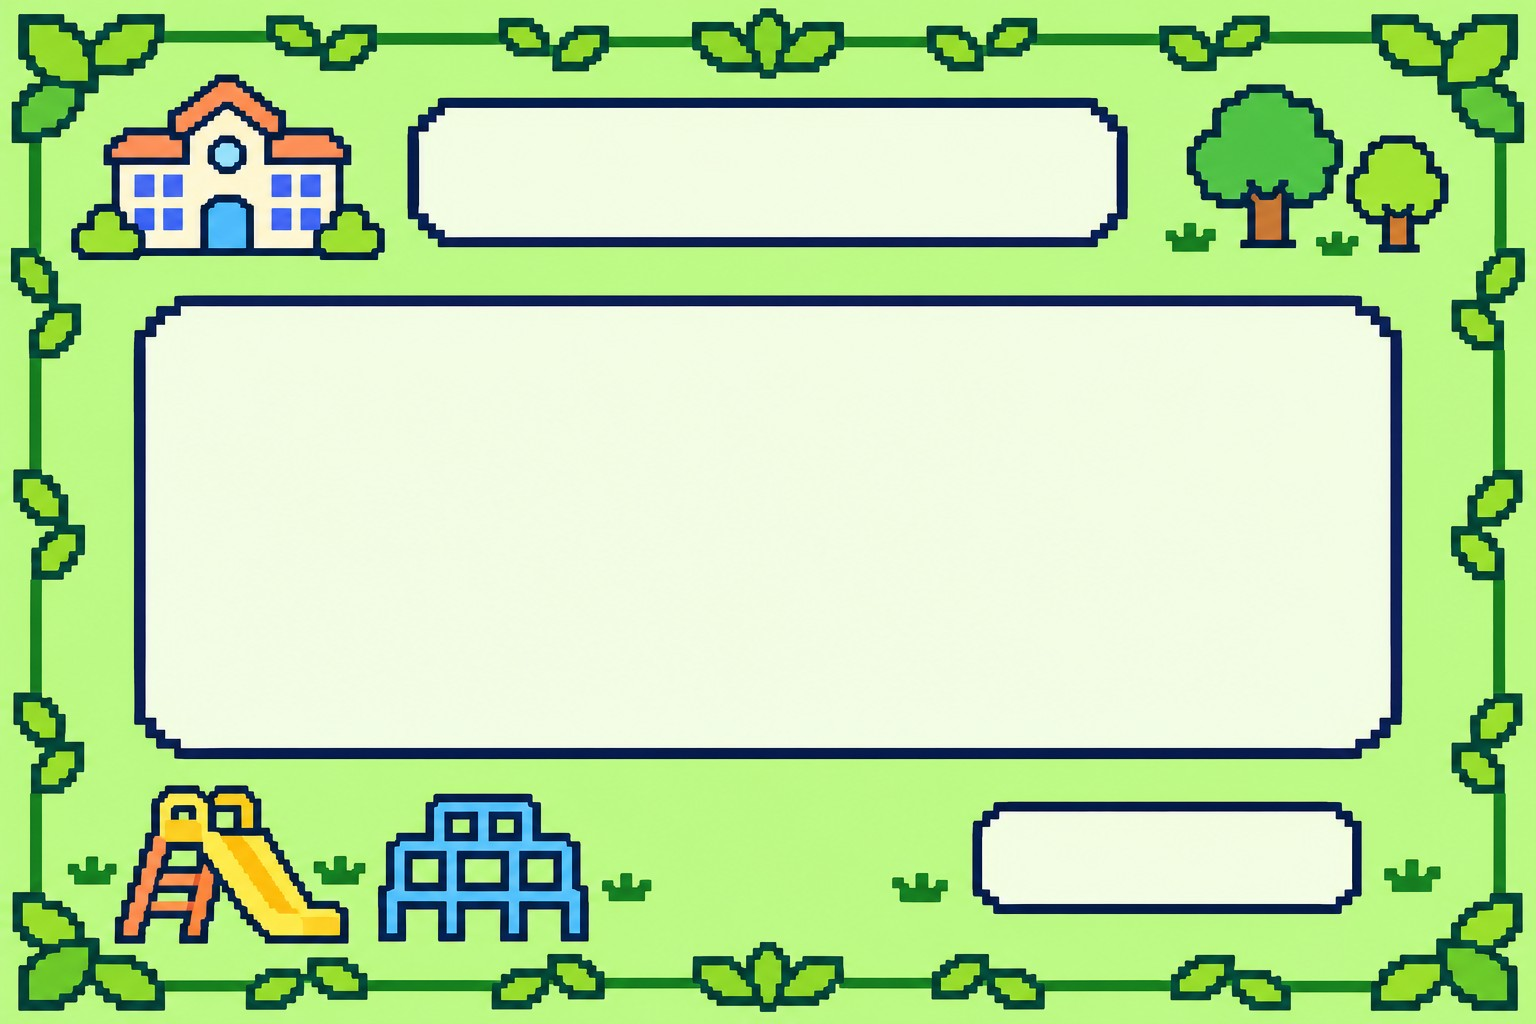
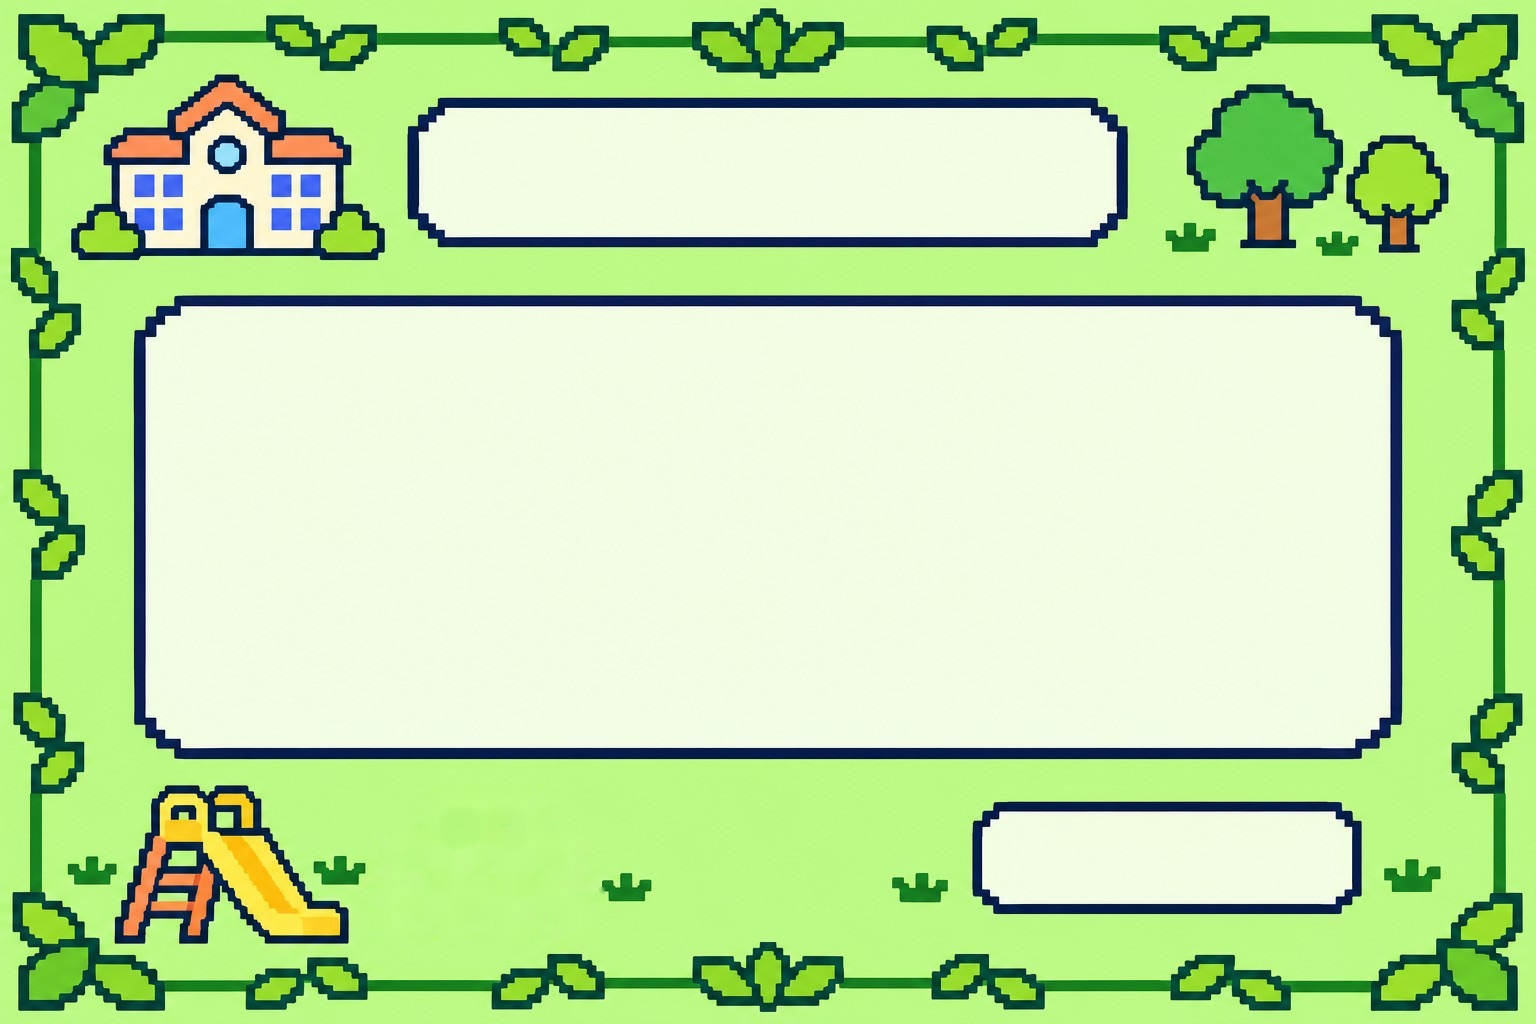
약속 카드 새 구도(의견 7): 수호 친구 왼쪽·수칙 오른쪽, 작성일·이름·서명 동그라미, 고유번호·서명 줄 삭제, 제목 통일, 운동장 정글짐 삭제, 꾸미기 화면 위쪽 정리 / 스캔 줄 빼기
Claude-Session: https://claude.ai/code/session_013gDdTbzoEotdu3iUeSL6QF

Changed region(s): [[0.2188, 0.75, 0.4062, 0.9375]]

diff --git a/js/card.js b/js/card.js
@@ -8,14 +8,17 @@ const FONT = '"Apple SD Gothic Neo","Noto Sans KR","Noto Sans CJK KR","Malgun Go
 const CARD_W = 1536, CARD_H = 1024;
 const HEAD = '"Jua",' + FONT;
 
-/* 카드 배경 3종 (확정 그림 1536×1024) — 칸 좌표는 그림의 빈 칸에 맞춤 */
+/* 카드 배경 3종 (확정 그림 1536×1024) — 칸 좌표는 그림의 빈 칸에 맞춤
+   새 구도 (팀 점검 11/8): 큰 칸 왼쪽에 수호 친구 크게, 오른쪽에 예방 수칙
+   아래 줄: 작성일 · 이름 · 서명 동그라미(선택). 고유번호·서명 줄은 넣지 않음 */
+const CARD_TITLE = '알레르기 예방 약속 카드';
 const DESIGNS = {
-  certificate: { name: '인증서', title: '알레르기 예방 지킴이 자격증', bg: 'assets/card/bg_certificate.jpg', titleBox: [410, 116, 720, 128], titleSize: 50, titleColor: '#2F5A1F',
-    rules: [236, 318, 1062, 412], nameBox: [909, 804, 335, 88], charBox: [180, 760, 250, 250], meta: [440, 792, 450] },
-  lab: { name: '연구실', title: '알레르기 예방 연구원증', bg: 'assets/card/bg_lab.jpg', titleBox: [400, 92, 740, 152], titleSize: 54, titleColor: '#252E52',
-    rules: [192, 322, 1150, 406], nameBox: [970, 802, 400, 112], charBox: [270, 760, 250, 250], meta: [535, 800, 420] },
-  playground: { name: '운동장', title: '알레르기 예방 약속 카드', bg: 'assets/card/bg_playground.jpg', titleBox: [410, 100, 712, 140], titleSize: 52, titleColor: '#2F5A1F',
-    rules: [166, 316, 1206, 300], nameBox: [974, 800, 386, 112], charBox: [600, 770, 240, 240], meta: [166, 628, 760] }
+  certificate: { name: '인증서', bg: 'assets/card/bg_certificate.jpg', titleBox: [410, 116, 720, 128], titleSize: 54, titleColor: '#2F5A1F',
+    box: [206, 312, 1118, 424], nameBox: [909, 804, 335, 88], seal: [1326, 846, 60] },
+  lab: { name: '연구실', bg: 'assets/card/bg_lab.jpg', titleBox: [400, 92, 740, 152], titleSize: 56, titleColor: '#252E52',
+    box: [172, 318, 1194, 418], nameBox: [970, 802, 400, 112], seal: [1434, 858, 56] },
+  playground: { name: '운동장', bg: 'assets/card/bg_playground.jpg', titleBox: [410, 100, 712, 140], titleSize: 54, titleColor: '#2F5A1F',
+    box: [146, 308, 1240, 436], nameBox: [974, 800, 386, 112], seal: [1428, 856, 56] }
 };
 /* 나의 수호 친구 = 수호냥 5동작 (저장 값은 예전 이름 pinky_01~05 그대로) */
 const BUDDIES = { pinky_01: '인사', pinky_02: '하트', pinky_03: '안내', pinky_04: '엄지', pinky_05: '만세' };
@@ -25,9 +28,10 @@ const buddySrc = k => `assets/char/${BUDDY_IMG[k] || k}_t.png`;
 /* 수칙 글씨 단계: 개수에 따라 시작하고, 넘치면 여백 → 줄 간격 → 글씨 순서로 줄임 */
 const STEPS = [
   { fs: 40, lh: 1.42, gap: 26 }, { fs: 34, lh: 1.40, gap: 18 }, { fs: 34, lh: 1.40, gap: 10 },
-  { fs: 34, lh: 1.28, gap: 8 }, { fs: 31, lh: 1.28, gap: 8 }, { fs: 28, lh: 1.26, gap: 6 } // 마지막 = 최소 글씨
+  { fs: 34, lh: 1.28, gap: 8 }, { fs: 31, lh: 1.28, gap: 8 }, { fs: 28, lh: 1.26, gap: 6 },
+  { fs: 26, lh: 1.24, gap: 5 }, { fs: 24, lh: 1.22, gap: 4 }, { fs: 22, lh: 1.2, gap: 3 } // 마지막 = 최소 글씨
 ];
-const startStep = n => (n <= 3 ? 0 : n <= 5 ? 1 : 2);
+const startStep = n => (n <= 3 ? 1 : n <= 5 ? 2 : 3);
 
 function rr(ctx, x, y, w, h, r) { ctx.beginPath(); ctx.roundRect ? ctx.roundRect(x, y, w, h, r) : ctx.rect(x, y, w, h); }
 
@@ -70,8 +74,11 @@ function layoutRules(ctx, rules, box) {
   }
 }
 
-/* 약속 카드 그리기 */
-async function drawPromiseCard(canvas, { design = 'certificate', buddy = 'pinky_01', name = '', cardNo = '', rules = [], sigImg = null, preview = false }) {
+/* 작성일 '2026년 11월 8일' */
+const cardDate = iso => { const [y, m, d] = String(iso).split('-').map(Number); return `${y}년 ${m}월 ${d}일`; };
+
+/* 약속 카드 그리기 — 반환값 seal: 서명 동그라미 위치(카드 좌표), 미리보기에서 누르면 서명 */
+async function drawPromiseCard(canvas, { design = 'certificate', buddy = 'pinky_01', name = '', date = '', rules = [], sigImg = null, preview = false }) {
   const D = DESIGNS[design] || DESIGNS.certificate;
   canvas.width = CARD_W; canvas.height = CARD_H;
   const ctx = canvas.getContext('2d');
@@ -83,31 +90,49 @@ async function drawPromiseCard(canvas, { design = 'certificate', buddy = 'pinky_
   /* 제목 */
   const [tx, ty, tw, th] = D.titleBox;
   ctx.fillStyle = D.titleColor; ctx.textAlign = 'center'; ctx.textBaseline = 'middle';
-  ctx.font = `400 ${D.titleSize}px ${HEAD}`; ctx.fillText(D.title, tx + tw / 2, ty + th / 2 + 2, tw - 30);
+  ctx.font = `400 ${D.titleSize}px ${HEAD}`; ctx.fillText(CARD_TITLE, tx + tw / 2, ty + th / 2 + 2, tw - 30);
 
-  /* 캐릭터 (아래쪽 가운데) */
-  const [cx, cy, cw, chh] = D.charBox;
-  const sc = Math.min(cw / ch.width, chh / ch.height);
+  /* 큰 칸 나누기: 왼쪽 수호 친구 · 오른쪽 수칙 */
+  const [bx, by, bw, bh] = D.box, leftW = Math.round(bw * 0.27);
+  const sc = Math.min((leftW - 16) / ch.width, (bh - 20) / ch.height);
   const dw = ch.width * sc, dh = ch.height * sc;
   ctx.save(); ctx.imageSmoothingEnabled = false;
-  ctx.drawImage(ch, cx + (cw - dw) / 2, cy + chh - dh, dw, dh); ctx.restore();
+  ctx.drawImage(ch, bx + (leftW - dw) / 2, by + (bh - dh) / 2, dw, dh); ctx.restore();
+  ctx.strokeStyle = 'rgba(30,42,90,.22)'; ctx.setLineDash([10, 8]); ctx.lineWidth = 3;
+  ctx.beginPath(); ctx.moveTo(bx + leftW + 6, by + 18); ctx.lineTo(bx + leftW + 6, by + bh - 18); ctx.stroke(); ctx.setLineDash([]);
 
-  /* 고유번호 · 서명 */
-  const [mx, my, mw] = D.meta;
-  const row = (y, h) => { ctx.fillStyle = 'rgba(255,255,255,.93)'; ctx.strokeStyle = 'rgba(30,42,90,.28)'; ctx.lineWidth = 2; rr(ctx, mx, y, mw, h, 16); ctx.fill(); ctx.stroke(); };
-  const lab = (t, y) => { ctx.font = `800 17px ${FONT}`; const w = ctx.measureText(t).width + 20; ctx.fillStyle = '#FBE3D9'; rr(ctx, mx + 12, y - 14, w, 28, 14); ctx.fill(); ctx.fillStyle = '#C9573A'; ctx.textAlign = 'left'; ctx.fillText(t, mx + 22, y + 1); return w; };
-  row(my, 46); const lw = lab('고유번호', my + 23);
-  ctx.font = `800 22px ${FONT}`; ctx.fillStyle = '#2a1f1a'; ctx.textAlign = 'left'; ctx.fillText(cardNo || 'AL-○○○○○○-○○○○', mx + 24 + lw, my + 24);
-  const sy = my + 56; row(sy, 76); const lw2 = lab('직접 서명', sy + 38);
-  const px = mx + 24 + lw2, pw = mw - (px - mx) - 14;
-  if (sigImg) { const s2 = Math.min(pw / sigImg.width, 60 / sigImg.height); ctx.drawImage(sigImg, px, sy + 8 + (60 - sigImg.height * s2) / 2, sigImg.width * s2, sigImg.height * s2); }
-  else if (preview) {
-    ctx.setLineDash([7, 5]); ctx.strokeStyle = '#CFC2B0'; ctx.lineWidth = 2; rr(ctx, px, sy + 9, pw, 58, 10); ctx.stroke(); ctx.setLineDash([]);
-    ctx.font = `700 17px ${FONT}`; ctx.fillStyle = '#A8A08F'; ctx.textAlign = 'center'; ctx.fillText('직접 서명 (선택)', px + pw / 2, sy + 38);
+  /* 아래 줄: 작성일 · 이름 · 서명 */
+  const [nx, ny, nw, nh] = D.nameBox, midY = ny + nh / 2;
+  ctx.textBaseline = 'middle';
+  ctx.font = `800 30px ${FONT}`; ctx.fillStyle = '#2a1f1a'; ctx.textAlign = 'right';
+  ctx.fillText(cardDate(date || DateK.today()), nx - 26, midY + 1);
+  ctx.font = `800 20px ${FONT}`; const tagW = ctx.measureText('이름').width + 24;
+  let nf = 34; ctx.font = `900 ${nf}px ${FONT}`;
+  while (nf > 20 && tagW + 10 + ctx.measureText(name).width > nw - 24) { nf -= 2; ctx.font = `900 ${nf}px ${FONT}`; }
+  const nmW = ctx.measureText(name).width, startX = nx + (nw - (tagW + 10 + nmW)) / 2;
+  ctx.fillStyle = '#E0663F'; rr(ctx, startX, midY - 16, tagW, 32, 16); ctx.fill();
+  ctx.font = `800 20px ${FONT}`; ctx.fillStyle = '#fff'; ctx.textAlign = 'left'; ctx.fillText('이름', startX + 12, midY + 1);
+  ctx.font = `900 ${nf}px ${FONT}`; ctx.fillStyle = '#2a1f1a'; ctx.fillText(name, startX + tagW + 10, midY + 1);
+
+  const [sx, sy, sr] = D.seal;
+  ctx.beginPath(); ctx.arc(sx, sy, sr, 0, Math.PI * 2);
+  if (sigImg) {
+    ctx.fillStyle = '#fff'; ctx.fill(); ctx.lineWidth = 6; ctx.strokeStyle = '#E0663F'; ctx.stroke();
+    ctx.save(); ctx.beginPath(); ctx.arc(sx, sy, sr - 6, 0, Math.PI * 2); ctx.clip();
+    const s2 = Math.min((sr * 1.7) / sigImg.width, (sr * 1.2) / sigImg.height);
+    ctx.drawImage(sigImg, sx - sigImg.width * s2 / 2, sy - sigImg.height * s2 / 2, sigImg.width * s2, sigImg.height * s2); ctx.restore();
+  } else {
+    ctx.fillStyle = '#F07A5E'; ctx.fill(); ctx.lineWidth = 4; ctx.strokeStyle = '#C9573A'; ctx.stroke();
+    if (preview) {
+      ctx.fillStyle = '#fff'; ctx.textAlign = 'center';
+      ctx.font = `900 24px ${FONT}`; ctx.fillText('서명', sx, sy - 11);
+      ctx.font = `800 17px ${FONT}`; ctx.fillText('(선택)', sx, sy + 15);
+    } else drawPaw(ctx, sx - sr * .45, sy - sr * .48, sr * .9, 'rgba(255,255,255,.9)');
   }
+  ctx.textBaseline = 'alphabetic';
 
   /* 수칙 */
-  const box = D.rules; const L = layoutRules(ctx, rules, box);
+  const box = [bx + leftW + 30, by + 14, bw - leftW - 50, bh - 28]; const L = layoutRules(ctx, rules, box);
   let y = box[1] + (box[3] - L.total) / 2;
   ctx.textAlign = 'left'; ctx.textBaseline = 'alphabetic';
   L.items.forEach((it, i) => {
@@ -128,23 +153,8 @@ async function drawPromiseCard(canvas, { design = 'certificate', buddy = 'pinky_
     if (i < L.items.length - 1) { ctx.strokeStyle = 'rgba(30,42,90,.2)'; ctx.setLineDash([8, 6]); ctx.lineWidth = 2; ctx.beginPath(); ctx.moveTo(box[0], y); ctx.lineTo(box[0] + box[2], y); ctx.stroke(); ctx.setLineDash([]); }
   });
 
-  /* 이름 */
-  const [nx, ny, nw, nh] = D.nameBox;
-  ctx.font = `900 34px ${FONT}`; const nmW = ctx.measureText(name).width;
-  ctx.font = `800 20px ${FONT}`; const tagW = ctx.measureText('이름').width + 24;
-  const startX = nx + (nw - (tagW + 10 + nmW)) / 2, midY = ny + nh / 2;
-  ctx.fillStyle = '#E0663F'; rr(ctx, startX, midY - 16, tagW, 32, 16); ctx.fill();
-  ctx.fillStyle = '#fff'; ctx.textAlign = 'left'; ctx.textBaseline = 'middle'; ctx.fillText('이름', startX + 12, midY + 1);
-  ctx.font = `900 34px ${FONT}`; ctx.fillStyle = '#2a1f1a'; ctx.fillText(name, startX + tagW + 10, midY + 1);
-
-  /* 슬로건 (칸이 있는 디자인만) */
-  if (!D.slogan) { ctx.textBaseline = 'alphabetic'; return { fit: L.fit, step: L.step }; }
-  const [gx, gy, gw, gh] = D.slogan;
-  ctx.fillStyle = 'rgba(255,255,255,.9)'; ctx.strokeStyle = 'rgba(30,42,90,.28)'; ctx.lineWidth = 2; rr(ctx, gx, gy, gw, gh, gh / 2); ctx.fill(); ctx.stroke();
-  ctx.font = `900 30px ${FONT}`; ctx.fillStyle = '#3C509F'; ctx.textAlign = 'center';
-  ctx.fillText('♡ 건강한 오늘, 알레르기 없는 내일! ♡', gx + gw / 2, gy + gh / 2 + 1, gw - 24);
   ctx.textBaseline = 'alphabetic';
-  return { fit: L.fit, step: L.step };
+  return { fit: L.fit, step: L.step, seal: D.seal };
 }
 
 /* 챌린지 메달 이미지 (S48-2) — 이름은 넣지 않아요. color: pink | green | blue */

diff --git a/js/app.js b/js/app.js
@@ -202,18 +202,14 @@ Router.screens.S44 = (app) => {
   app.innerHTML = `
   <div class="sc outdoor s44">
     <header class="s44-top">
-      <img class="s44-mascot" src="${CAT('pinky_03')}" alt="">
-      <div class="s44-titles">
-        <h1 class="title-banner">${pawSVG('#fff')} 나만의 알레르기 예방 <em>약속 카드</em> 만들기! ${pawSVG('#fff')}</h1>
-        <ol class="steps" id="steps"><li>카드 디자인 선택</li><li>나의 수호 친구 고르기</li><li>미리보기 확인</li><li>완성하기</li></ol>
-      </div>
+      <h1 class="title-banner">${pawSVG('#fff')} 나만의 알레르기 예방 <em>약속 카드</em> 만들기! ${pawSVG('#fff')}</h1>
       <p class="bubble sm s44-bubble">원하는 디자인과 캐릭터를 선택하고,<br>나만의 약속 카드를 완성해 보세요!</p>
     </header>
     <div class="s44-grid">
       <section class="s44-box s44-designs"><h3 class="box-tag">🗂 카드 디자인 선택</h3><div id="designs"></div></section>
       <section class="s44-box s44-center">
         <div class="preview-wrap" id="pvwrap"><canvas id="pv"></canvas><button class="zoom" id="zoom">🔍 크게 보기</button></div>
-        <button class="btn white sign-btn" id="sign">✍ 서명하기 (선택)</button>
+        <p class="sign-hint" id="signHint">✍ 카드의 <b>빨간 동그라미</b>를 누르면 서명할 수 있어요 (선택)</p>
       </section>
       <section class="s44-right">
         <div class="s44-box"><h3 class="box-tag">나의 수호 친구 선택</h3><div class="buddies" id="buddies"></div></div>
@@ -227,14 +223,14 @@ Router.screens.S44 = (app) => {
     </nav>
   </div>`;
   const canvas = $('#pv');
-  const draw = () => drawPromiseCard(canvas, { ...st, name, cardNo: Store.get('cardNo', ''), rules, sigImg: signatureImg, preview: true });
+  const cardDay = () => Store.get('cardDate', '') || DateK.today();
+  let sealAt = null;
+  const draw = () => drawPromiseCard(canvas, { ...st, name, date: cardDay(), rules, sigImg: signatureImg, preview: true }).then(r => { sealAt = r.seal; });
   const render = () => {
-    $$('#steps li').forEach((li, i) => (li.className = i + 1 === st.step ? 'cur' : i + 1 < st.step ? 'done' : ''));
     $('#designs').innerHTML = Object.entries(DESIGNS).map(([k, d]) => `<button class="design ${st.design === k ? 'on' : ''}" data-k="${k}"><span class="radio"></span><span class="thumb" style="background-image:url(${d.bg})"><b>${d.name}<br>디자인</b></span></button>`).join('');
     $('#buddies').innerHTML = Object.entries(BUDDIES).map(([k, n]) => `<button class="buddy ${st.buddy === k ? 'on' : ''}" data-k="${k}"><span class="tick">✓</span><img src="${CAT(k)}" alt=""><span class="bn">${n}</span></button>`).join('');
-    $('#summary').innerHTML = `<h3 class="box-tag">📋 선택한 내용 요약</h3><p><span>카드 디자인</span><b>${DESIGNS[st.design].name}</b></p><p><span><img src="${CAT(st.buddy)}" alt=""> 나의 수호 친구</span><b>${BUDDIES[st.buddy]}</b></p><p><span>예방 수칙</span><b>총 ${rules.length}개</b></p>`;
-    $('#sign').textContent = signatureImg ? '✓ 서명했어요 (다시 쓰기)' : '✍ 서명하기 (선택)';
-    $('#sign').classList.toggle('signed', !!signatureImg);
+    $('#summary').innerHTML = `<h3 class="box-tag">📋 선택한 내용 요약</h3><p><span>카드 디자인</span><b>${DESIGNS[st.design].name}</b></p><p><span>나의 수호 친구</span><b>${BUDDIES[st.buddy]}</b></p><p><span>예방 수칙</span><b>총 ${rules.length}개</b></p>`;
+    $('#signHint').innerHTML = signatureImg ? '✓ 서명했어요 · <b>빨간 동그라미</b>를 누르면 다시 쓸 수 있어요' : '✍ 카드의 <b>빨간 동그라미</b>를 누르면 서명할 수 있어요 (선택)';
     draw();
   };
   $('#designs').addEventListener('click', e => { const b = e.target.closest('[data-k]'); if (!b) return; st.design = b.dataset.k; st.step = Math.max(st.step, 2); Store.set('design', st.design); playSfx('tab'); render(); });
@@ -248,8 +244,15 @@ Router.screens.S44 = (app) => {
   };
   onTap($('#zoom'), zoom);
 
-  /* 서명 창 */
-  onTap($('#sign'), () => {
+  /* 서명 창: 미리보기 카드의 빨간 동그라미를 누르면 열림 */
+  const onSeal = e => {
+    if (!sealAt) return false;
+    const r = canvas.getBoundingClientRect(), x = (e.clientX - r.left) * CARD_W / r.width, y = (e.clientY - r.top) * CARD_H / r.height;
+    return Math.hypot(x - sealAt[0], y - sealAt[1]) <= sealAt[2] + 24;
+  };
+  canvas.addEventListener('pointermove', e => { canvas.style.cursor = onSeal(e) ? 'pointer' : ''; });
+  canvas.addEventListener('click', e => { if (onSeal(e)) { playSfx('tap'); openSign(); } });
+  const openSign = () => {
     const m = Modal.open(`
       <div class="pop-head">✍ 직접 서명하기</div>
       <p class="pop-small">손가락이나 터치펜으로 이름을 써 주세요. 서명은 선택이에요.</p>
@@ -268,7 +271,7 @@ Router.screens.S44 = (app) => {
       signatureImg = await new Promise(res => { const i = new Image(); i.onload = () => res(i); i.src = pad.toDataURL('image/png'); });
       Modal.close(); render();
     });
-  });
+  };
 
   onTap($('#redo'), () => Router.go('RULES', { tab: 0 }));
   onTap($('#home'), () => {
@@ -284,7 +287,8 @@ Router.screens.S44 = (app) => {
       Store.set('cardNo', `AL-${t}-${String(Math.floor(1000 + Math.random() * 9000))}`);
     }
     const out = document.createElement('canvas');
-    const res = await drawPromiseCard(out, { ...st, name, cardNo: Store.get('cardNo'), rules, sigImg: signatureImg, preview: false });
+    if (!Store.get('cardDate')) Store.set('cardDate', DateK.today());
+    const res = await drawPromiseCard(out, { ...st, name, date: cardDay(), rules, sigImg: signatureImg, preview: false });
     if (!res.fit) {
       toast('약속이 카드에 다 들어가지 않아요. [다시 꾸미기]에서 약속을 줄이거나 짧게 고쳐 주세요.', 3500); return;
     }

diff --git a/css/lab.css b/css/lab.css
@@ -90,7 +90,7 @@ b.lc { color:var(--coral-d); font-weight:400; font-family:var(--font-head); }
 .lab-spot.pulse > i { animation:corner 1.4s ease-in-out infinite; }
 @keyframes corner { 50% { transform:scale(1.25); } }
 .lab-spot.glow { animation:spotglow .6s ease-in-out 5; }
-/* 스캔할 곳 강조 (사용자 요청 11/8): 바닥 빛 + 물건 테두리 빛 + 스캔 줄 + 모서리 크게 */
+/* 스캔할 곳 강조 (사용자 요청 11/8): 바닥 빛 + 퍼지는 물결 + 물건 테두리 빛 + 모서리 크게 */
 .lab-spot.pulse { isolation:isolate; border-radius:22px; animation:spotripple 1.4s ease-out infinite; }
 @keyframes spotripple { 0% { box-shadow:0 0 0 0 rgba(224,102,63,.75); } 100% { box-shadow:0 0 0 30px rgba(224,102,63,0); } }
 .lab-spot.pulse.glow { animation:spotglow .6s ease-in-out 5; }
@@ -100,10 +100,6 @@ b.lc { color:var(--coral-d); font-weight:400; font-family:var(--font-head); }
 .lab-spot.pulse > img { filter:drop-shadow(3px 0 0 #fff) drop-shadow(-3px 0 0 #fff) drop-shadow(0 3px 0 #fff) drop-shadow(0 -3px 0 #fff) drop-shadow(0 0 10px #F5C842);
   animation:spotlift 1.4s ease-in-out infinite; }
 @keyframes spotlift { 50% { translate:0 -6px; } }
-.lab-spot.pulse::after { content:''; position:absolute; left:-8px; right:-8px; height:6px; top:0; pointer-events:none;
-  background:linear-gradient(90deg, rgba(80,220,255,0), #5CE1FF 20%, #fff 50%, #5CE1FF 80%, rgba(80,220,255,0)); box-shadow:0 0 12px #5CE1FF;
-  animation:spotscan 1.8s linear infinite; }
-@keyframes spotscan { 0% { top:0; opacity:0; } 10% { opacity:1; } 90% { opacity:1; } 100% { top:calc(100% - 6px); opacity:0; } }
 .lab-spot.pulse > i { width:34px; height:34px; border-color:#E0663F; filter:drop-shadow(0 0 0 #fff) drop-shadow(0 0 6px #fff); }
 .lab-spot.pulse > .c1 { border-left-width:8px; border-top-width:8px; } .lab-spot.pulse > .c2 { border-right-width:8px; border-top-width:8px; }
 .lab-spot.pulse > .c3 { border-left-width:8px; border-bottom-width:8px; } .lab-spot.pulse > .c4 { border-right-width:8px; border-bottom-width:8px; }
@@ -250,6 +246,6 @@ b.lc { color:var(--coral-d); font-weight:400; font-family:var(--font-head); }
 @keyframes breathe { 0%,100% { transform:scale(1,1); } 50% { transform:scale(1.012,.985); } }
 
 @media (prefers-reduced-motion: reduce) {
-  .px-btn.shine::after, .px-btn.beat, .lab-spot.pulse, .lab-spot.pulse > i, .lab-spot.pulse::before, .lab-spot.pulse::after, .lab-spot.pulse > img, .lab-lens.pulse, .mites i, .mites em, .lab-card:not(.seen), .bob, .breathe img { animation:none !important; }
+  .px-btn.shine::after, .px-btn.beat, .lab-spot.pulse, .lab-spot.pulse > i, .lab-spot.pulse::before, .lab-spot.pulse > img, .lab-lens.pulse, .mites i, .mites em, .lab-card:not(.seen), .bob, .breathe img { animation:none !important; }
   .lab-card > span { transition:none; }
 }

diff --git a/css/style.css b/css/style.css
@@ -183,11 +183,13 @@ img, canvas { max-width:100%; }
 
 /* ---------- S44 ---------- */
 .s44 { flex:1; display:flex; flex-direction:column; }
-.s44-top { display:grid; grid-template-columns:120px 1fr 260px; gap:12px; align-items:center; }
+.s44-top { display:flex; align-items:center; justify-content:center; gap:16px; padding-right:64px; }
+.s44-top .title-banner { flex:0 1 auto; font-size:clamp(20px,2.4vw,32px); }
+.sign-hint { margin-top:10px; text-align:center; font-weight:800; font-size:15px; color:#5a5055; } .sign-hint b { color:#E0663F; }
 .s44-mascot { width:120px; }
 .s44-titles { display:flex; flex-direction:column; gap:10px; min-width:0; }
 .s44-titles .title-banner { align-self:stretch; font-size:clamp(20px,2.6vw,34px); }
-.bubble.sm.s44-bubble { font-size:clamp(12px,1.15vw,15px); padding:10px 12px; }
+.bubble.sm.s44-bubble { flex:none; font-size:clamp(12px,1.15vw,15px); padding:10px 12px; background:#FFF3B8; }
 .steps { list-style:none; display:flex; align-items:center; gap:6px; counter-reset:st; }
 .steps li { counter-increment:st; flex:1; display:flex; align-items:center; gap:8px; background:#fff; border:3px solid #F3DDD6; border-radius:999px; padding:5px 12px 5px 5px; font-weight:900; font-size:clamp(12px,1.25vw,16px); color:#5a5055; white-space:nowrap; }
 .steps li::before { content:counter(st); flex:none; display:grid; place-items:center; width:30px; height:30px; border-radius:50%; background:#FCE1D9; color:var(--pink-d); font-size:15px; }
@@ -532,9 +534,8 @@ body.tablet .rules-bar .btn { font-size:24px; min-height:72px; }
 /* S44 */
 body.tablet .s44 { display:flex; flex-direction:column; padding:14px 24px 14px; }
 body.tablet .s44 > * { position:relative; }
-body.tablet .s44-top { grid-template-columns:150px 1fr 300px; }
-body.tablet .s44-mascot { width:150px; }
-body.tablet .s44-titles .title-banner { font-size:38px; padding:10px 30px; }
+body.tablet .s44-top .title-banner { font-size:34px; padding:10px 30px; }
+body.tablet .sign-hint { font-size:18px; }
 body.tablet .bubble.sm.s44-bubble { font-size:17px; }
 body.tablet .steps li { font-size:19px; }
 body.tablet .s44-grid { grid-template-columns:260px 1fr 340px; }

diff --git a/css/theme.css b/css/theme.css
@@ -87,5 +87,5 @@ body.tablet .sc.outdoor::before, body.tablet .sc.outdoor::after { content:none !
 .tg-reset.danger { color:var(--coral-d) !important; }
 
 /* S44: 새 카드(3:2)가 커져도 아래 버튼이 화면 안에 */
-body.tablet .s44 .preview-wrap { width:700px; margin:0 auto; }
+body.tablet .s44 .preview-wrap { width:min(880px,100%); margin:0 auto; cursor:default; }
 body.tablet .s44 .s44-center { align-items:center; }
